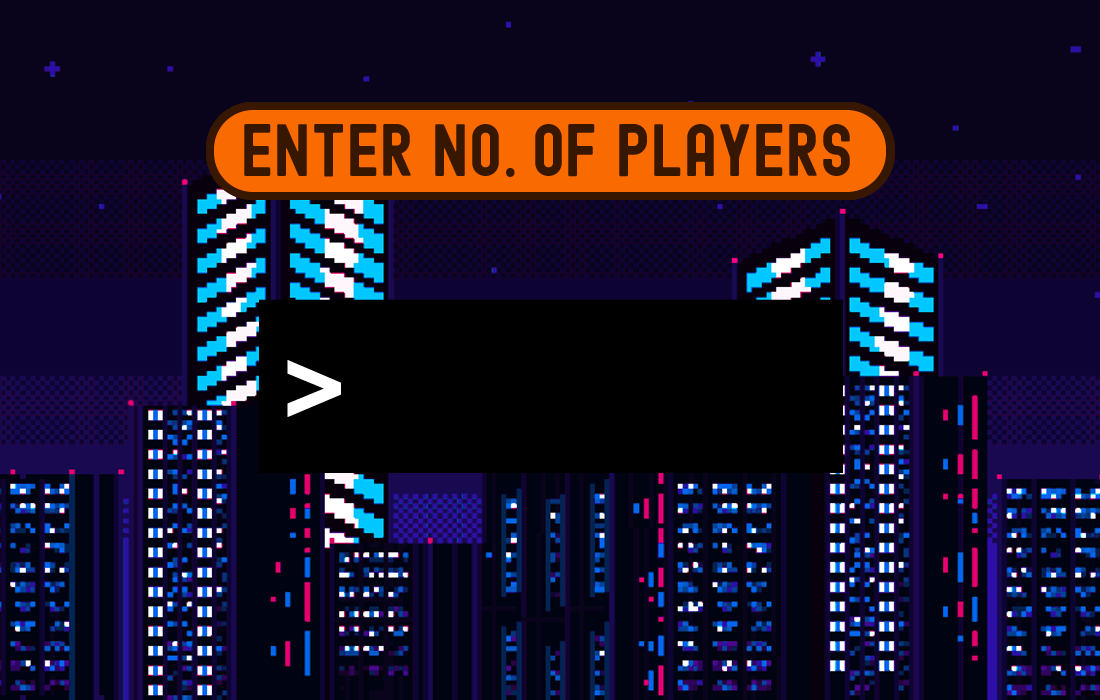
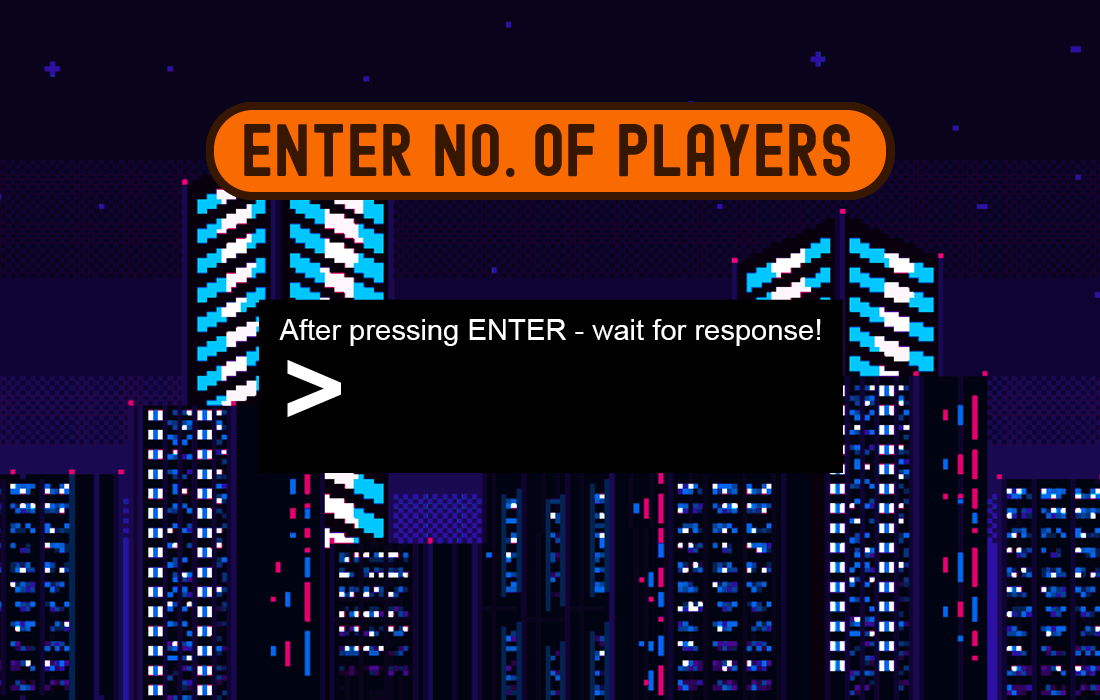
Integrate create lobby in UI

Changed region(s): [[0.2473, 0.45, 0.7418, 0.51]]

diff --git a/src/game/Game.py b/src/game/Game.py
@@ -1,5 +1,6 @@
 from objects.Button import Button
 from settings import *
+from Chat import Chat
 import pygame as pg
 # from sprites import *
 
@@ -17,6 +18,9 @@ class Game:
         self.clock = pg.time.Clock()
         self.running = True
         self.status = INTRO
+
+        # no lobby initially
+        self.lobby = 0
 
     def run(self):
         self.playing = True
@@ -41,7 +45,6 @@ class Game:
                 self.draw()
             
     def new(self):
-
         # sprite groups for later use
         self.all_sprites = pg.sprite.Group()
         self.platforms = pg.sprite.Group()
@@ -83,9 +86,7 @@ class Game:
                 pos = pg.mouse.get_pos()
 
                 if event.type == pg.QUIT:
-                    if self.playing:
-                        self.playing = False
-                    self.running = False
+                    quit()
                 
                 if event.type == pg.MOUSEBUTTONDOWN:
                     if start.isOver(pos):
@@ -120,9 +121,7 @@ class Game:
                 pos = pg.mouse.get_pos()
 
                 if event.type == pg.QUIT:
-                    if self.playing:
-                        self.playing = False
-                    self.running = False
+                    quit()
                 
                 if event.type == pg.MOUSEBUTTONDOWN:
                     if back.isOver(pos):
@@ -141,7 +140,8 @@ class Game:
         join = Button('join', 400, 400, 300, 100)
         back = Button('back', 20, 20, 100, 100)
         choice = 'none'
-        
+        error = 'none'
+
         font = pg.font.Font(None, 100)
         text = ''
 
@@ -150,7 +150,12 @@ class Game:
             if choice == 'none':
                 self.screen.blit(START1_BG, ORIGIN)
             elif choice == 'create':
-                self.screen.blit(START2A_BG, ORIGIN)
+                if error == 'invalid':
+                    self.screen.blit(START2A_FAIL_BG, ORIGIN)
+                elif error == 'none-success':
+                    self.screen.blit(START2A_SUCCESS_BG, ORIGIN)
+                elif error == 'none':
+                    self.screen.blit(START2A_BG, ORIGIN)
             elif choice == 'join':
                 self.screen.blit(START2B_BG, ORIGIN)
 
@@ -161,9 +166,7 @@ class Game:
                 pos = pg.mouse.get_pos()
 
                 if event.type == pg.QUIT:
-                    if self.playing:
-                        self.playing = False
-                    self.running = False
+                    quit()
                 
                 if event.type == pg.MOUSEBUTTONDOWN:
                     if create.isOver(pos):
@@ -187,9 +190,19 @@ class Game:
 
                 if event.type == pg.KEYDOWN and (choice == 'create' or choice == 'join'):
                     if event.key == pg.K_RETURN:
-                        text = ''
-                        self.status = GAME
-                        break
+                        if choice == 'create':
+                            # count validation
+                            if error == 'none-success':
+                                self.status = GAME
+                                break
+                            elif text == '' or int(text) < 3 or int(text) > 6:
+                                error = 'invalid'
+                            else:
+                                error = 'none-success'
+                                chat = Chat()
+                                lobby = chat.createLobby(chat.packet, int(text))
+                                text = lobby.lobby_id
+                                self.lobby = lobby.lobby_id
                     elif event.key == pg.K_BACKSPACE:
                         text = text[:-1]
                     else:
@@ -216,7 +229,6 @@ game = Game()
 
 while game.running:
     game.new()
-    # game.gameover()
 
 pg.quit()
 

diff --git a/src/game/Chat.py b/src/game/Chat.py
@@ -1,0 +1,136 @@
+import os
+import sys
+
+# for adding the path to the folder with the protobuf files
+script_dir = sys.path[0]
+script_dir = script_dir[:-4]
+chat_path = os.path.join(script_dir, 'proto/')
+sys.path.insert(0, chat_path)
+
+import tcp_packet_pb2
+import socket
+import select
+
+packet = tcp_packet_pb2.TcpPacket()
+chatted = False
+
+# server parameters
+HOST = '202.92.144.45'
+PORT = 80
+BUFFER = 1024
+
+class Chat:
+	def __init__(self):
+		self.packet = packet
+		self.s = socket.socket(socket.AF_INET, socket.SOCK_STREAM)
+		self.s.connect((HOST,PORT))
+
+		# connect socket to server
+		# with socket.socket(socket.AF_INET, socket.SOCK_STREAM) as s:
+		# 	self.s = s.connect((HOST, PORT))
+			# while(True and not chatted):
+			# 	chatted = True
+			# 	print()
+			# 	connect = connectToLobby(packet)
+			# 	connect = sendAndReceive(connect, s)
+			# 	print()
+			# 	print("Welcome to Chat Lobby {}!".format(connect.lobby_id))
+			# 	print("Type lp() to list active players. Enjoy!")
+			# 	print()
+
+			# 	sys.stdout.write("Enter message (q to quit): \n")
+			# 	sys.stdout.flush()
+			# 	while(True):
+			# 		r, w, x = select.select([sys.stdin, s], [], [])
+			# 		if not r:
+			# 			continue
+			# 		if r[0] is sys.stdin:
+			# 			message = input()
+			# 			if message == "q":
+			# 				disconnect = disconnectChat(packet)
+			# 				s.send(disconnect.SerializeToString())
+			# 				print("You have been disconnected!")
+			# 				s.close()
+			# 				break
+			# 			elif message == "lp()":
+			# 				players = listPlayers(packet)
+			# 				players = sendAndReceive(players, s)
+			# 				print("Current players: ", end="")
+			# 				for player in players.player_list:
+			# 					print("{} ".format(player.name), end="")
+			# 				print()
+			# 			else:
+			# 				chat = chatInLobby(packet, message)
+			# 				s.send(chat.SerializeToString())
+			# 				sys.stdout.flush()
+			# 		else:
+			# 			chat = packet.ChatPacket()
+			# 			data = s.recv(BUFFER)
+			# 			packet.ParseFromString(data)
+			# 			if(packet.type == packet.CHAT):
+			# 				chat.ParseFromString(data)
+			# 				print("{}: {}".format(chat.player.name, chat.message))
+			# 			elif(packet.type == packet.DISCONNECT):
+			# 				disconnect = packet.DisconnectPacket()
+			# 				disconnect.ParseFromString(data)
+			# 				print("{} has disconnected!".format(disconnect.player.name))
+
+
+	# for moularization
+	def sendAndReceive(self, packet):
+		self.s.send(packet.SerializeToString())
+		data = self.s.recv(BUFFER)
+		packet.ParseFromString(data)
+		return packet
+
+	def createLobby(self, packet, number):
+		packet.type = packet.CREATE_LOBBY
+
+		lobby = packet.CreateLobbyPacket()
+		lobby.type = packet.type
+		lobby.max_players = number
+
+		lobby = self.sendAndReceive(lobby)
+		return lobby
+
+	def listPlayers(self, packet):
+		packet.type = packet.PLAYER_LIST
+
+		players = packet.PlayerListPacket()
+		players.type = packet.type
+
+		players = self.sendAndReceive(players)
+		return players
+
+	def connectToLobby(self, packet):
+		packet.type = packet.CONNECT
+
+		connect = packet.ConnectPacket()
+		connect.type = packet.type
+
+		print("Enter lobby id: ", end="")
+		connect.lobby_id = input()
+
+		print("Enter your name: ", end="")
+		connect.player.name = input()
+
+		return connect
+
+	def chatInLobby(self, packet, message):
+		packet.type = packet.CHAT
+
+		chat = packet.ChatPacket()
+		chat.type = packet.type
+
+		chat.message = message
+
+		return chat
+
+	def disconnectChat(self, packet):
+		packet.type = packet.DISCONNECT
+
+		disconnect = packet.DisconnectPacket()
+		disconnect.type = packet.type
+
+		return disconnect
+

diff --git a/src/game/settings.py b/src/game/settings.py
@@ -26,10 +26,18 @@ WHITE = (255, 255, 255)
 
 # background images
 INTRO_BG = pg.image.load('./images/backgrounds/intro.png')
-START1_BG = pg.image.load('./images/backgrounds/start1.png')
-START2A_BG = pg.image.load('./images/backgrounds/start2a.png')
-START2B_BG = pg.image.load('./images/backgrounds/start2b.png')
 ABOUT_BG = pg.image.load('./images/backgrounds/about.png')
 GUIDE_BG = pg.image.load('./images/backgrounds/guide.png')
 ARENA_BG = pg.image.load('./images/backgrounds/arena.png')
 CHAT_BG = pg.image.load('./images/backgrounds/chat.png')
+
+# start section - with error images
+START1_BG = pg.image.load('./images/backgrounds/start1.png')
+START2A_BG = pg.image.load('./images/backgrounds/start2a.png')
+START2A_FAIL_BG = pg.image.load('./images/backgrounds/start2aFail.png')
+START2A_SUCCESS_BG = pg.image.load('./images/backgrounds/start2aSuccess.png')
+START2B_NAME_BG = pg.image.load('./images/backgrounds/start2bName.png')
+START2B_LOBBY_BG = pg.image.load('./images/backgrounds/start2bLobby.png')
+START2B_DNE_BG = pg.image.load('./images/backgrounds/start2bDNE.png')
+START2B_FULL_BG = pg.image.load('./images/backgrounds/start2bFull.png')
+START2B_FOUND_BG = pg.image.load('./images/backgrounds/start2bFound.png')

diff --git a/src/game/objects/Button.py b/src/game/objects/Button.py
@@ -7,14 +7,14 @@ img_path = os.path.join(script_dir, 'images/buttons/')
 
 # reference for the button - https://www.youtube.com/watch?v=4_9twnEduFA
 
-class Button():
+class Button:
     def __init__(self, label, x, y, w, h):
         self.label = label
         self.x = x
         self.y = y
         self.w = w
         self.h = h
-        self.img = pg.image.load(img_path+label+'a.png') 
+        self.img = pg.image.load(img_path+label+'a.png')
 
     def isOver(self, pos):
         # pos is the mouse position or a tuple of (x,y) coordinates
